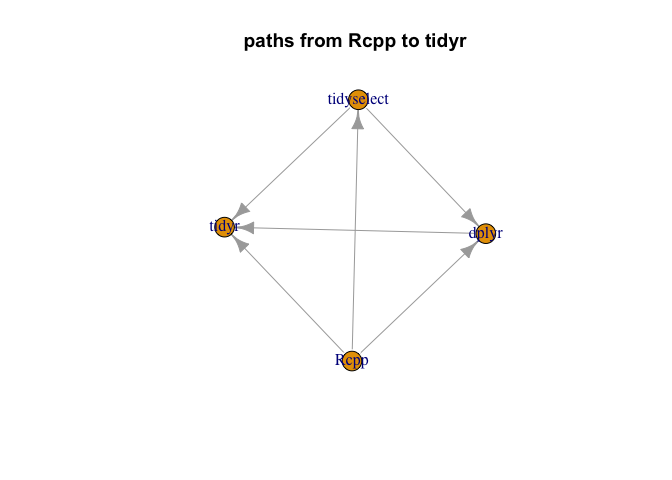
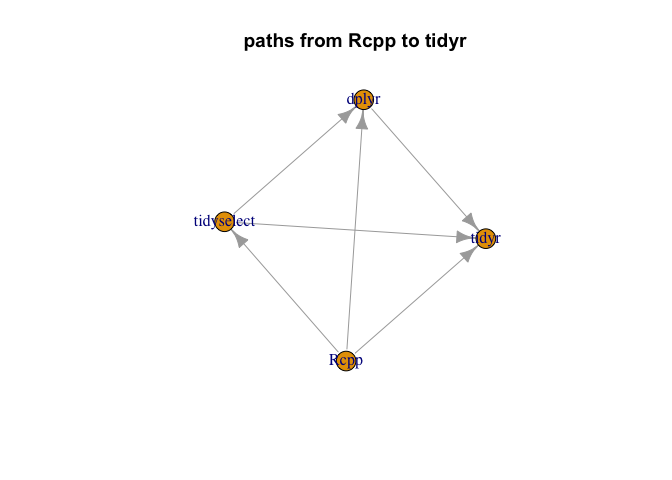
show more examples

diff --git a/pkg_risk/package_reach.md b/pkg_risk/package_reach.md
@@ -174,21 +174,40 @@ find_induced_subgraph <- function(start, end) {
     ## [1] 0.4525068
 
 ``` r
-last <- min(which(sizes==0))-2
-(pkg <- setdiff(names(igraph::ego(graph, mode="out", nodes = target_pkg, order = last)[[1]]), 
-                names(igraph::ego(graph, mode="out", nodes = target_pkg, order = last-1)[[1]])))
+for(i in wrapr::seqi(1, min(which(sizes==0))-2)) {
+  print(i)
+  (pkg <- setdiff(names(igraph::ego(graph, mode="out", nodes = target_pkg, order = i)[[1]]), 
+                  names(igraph::ego(graph, mode="out", nodes = target_pkg, order = i-1)[[1]])))
+  (pkg <- pkg[[sample.int(length(pkg),1)]])
+  
+  plot(find_induced_subgraph(target_pkg, pkg))
+  title(paste("paths from", target_pkg, "to", pkg))
+}
 ```
 
-    ## [1] "kwb.hantush"
-
-``` r
-pkg <- pkg[[1]]
-
-plot(find_induced_subgraph(target_pkg, pkg))
-title(paste("paths from", target_pkg, "to", pkg))
-```
+    ## [1] 1
 
 ![](package_reach_files/figure-markdown_github/unnamed-chunk-5-1.png)
+
+    ## [1] 2
+
+![](package_reach_files/figure-markdown_github/unnamed-chunk-5-2.png)
+
+    ## [1] 3
+
+![](package_reach_files/figure-markdown_github/unnamed-chunk-5-3.png)
+
+    ## [1] 4
+
+![](package_reach_files/figure-markdown_github/unnamed-chunk-5-4.png)
+
+    ## [1] 5
+
+![](package_reach_files/figure-markdown_github/unnamed-chunk-5-5.png)
+
+    ## [1] 6
+
+![](package_reach_files/figure-markdown_github/unnamed-chunk-5-6.png)
 
 ``` r
 # Look at some examples
